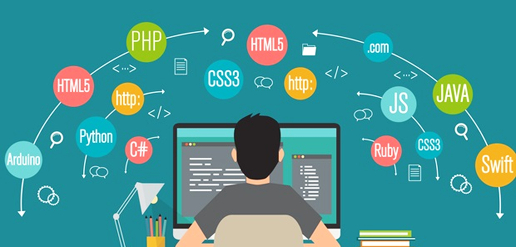
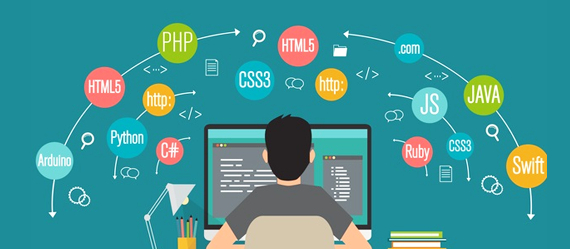
Fix responsive - Mackbook device responsive - Update image in summary section

Changed region(s): [[0.0, 0.085, 1.0, 1.0], [0.4651, 0.4534, 0.5271, 0.5101]]

diff --git a/assets/sass/libs/devices.scss b/assets/sass/libs/devices.scss
@@ -2,15 +2,75 @@
 @import "~devices.css/src/reset";
 @import "~devices.css/src/macbook";
 
+$device-sm-width: 400px;
+$device-sm-height: 200px;
+$frame-sm-width: 350px;
+$frame-sm-height: 200px;
+$frame-sm-size: 8px;
+
+$device-md-width: 700px;
+$device-md-height: 450px;
+$frame-md-width: 614px;
+$frame-md-height: 428px;
+$frame-md-size: 13px;
+
+$device-lg-width: 1024px;
+$device-lg-height: 584px;
+$frame-lg-width: 864px;
+$frame-lg-height: 570px;
+$frame-lg-size: 20px;
+
+@mixin macbook(
+  $device-width: $device-lg-width,
+  $device-height: $device-lg-height,
+  $frame-width: $frame-lg-width,
+  $frame-height: $frame-lg-height,
+  $frame-size: $frame-lg-size
+) {
+  .device-macbook {
+    width: $device-width;
+    height: $device-height;
+    .device-frame {
+      width: $frame-width;
+      height: $frame-height;
+      padding: $frame-size $frame-size $frame-size * 2;
+    }
+    .device-content {
+      border: none;
+      width: 100%;
+      height: 100%;
+    }
+    .device-power {
+      &, &:before {
+        width: $device-width;
+      }
+      &:after {
+        width: 190px;
+        margin-left: -95px;
+      }
+    }
+  }
+}
+
+// The size is responsive
+@media screen and (max-width: 767px) {
+  @include macbook($device-sm-width, $device-sm-height, $frame-sm-width, $frame-sm-height, $frame-sm-size)
+}
+
+// The size is responsive
+@media screen and (min-width: 768px) and (max-width: 1087px) {
+  @include macbook($device-md-width, $device-md-height, $frame-md-width, $frame-md-height, $frame-md-size)
+}
+
+// The size is responsive
+@media screen and (min-width: 1088px) {
+  @include macbook;
+}
+
 .device-macbook {
-  width: 1024px;
-  height: 584px;
   .device-frame {
-    width: 864px;
-    height: 570px;
     box-shadow: none;
     background: #ffffff;
-    padding: 20px;
     &:before {
       display: none;
     }
@@ -18,13 +78,9 @@
       display: none;
     }
   }
-
   .device-content {
     border: none;
-    width: 830px;
-    height: 520px;
   }
-
   .device-power {
     -webkit-box-shadow: 0 30px 40px 9px rgba(0, 0, 0, 0.2);
     -moz-box-shadow: 0 30px 40px 9px rgba(0, 0, 0, 0.2);
@@ -33,13 +89,5 @@
       background: #f1f1f1;
       box-shadow: inset 0 -2px 6px 0 #c6c6c6 !important;
     }
-  }
-  .device-power,
-  .device-power:before {
-    width: 1024px;
-  }
-  .device-power:after {
-    width: 190px;
-    margin-left: -95px;
   }
 }

diff --git a/components/Sections/Hero.vue b/components/Sections/Hero.vue
@@ -33,6 +33,9 @@
     padding-top: 4rem;
     background: linear-gradient(180deg, #4771d9 0%, #5bdfdf 100%) no-repeat;
     background-size: 100% calc(100% - 180px);
+    @media screen and (max-width: 400px) {
+      background-size: 100%;
+    }
     min-height: 100vh;
     width: 100%;
     overflow-x: hidden;
@@ -42,9 +45,15 @@
 
       .title, .subtitle {
         font-family: Poppins, sans-serif;
-        font-size: 3.5rem;
+        font-size: 2rem;
         color: #ffffff;
         text-align: center;
+        @media screen and (min-width: 768px) and (max-width: 1087px) {
+          font-size: 2.8rem;
+        }
+        @media screen and (min-width: 1088px) {
+          font-size: 3.5rem;
+        }
       }
       .title {
         font-weight: 600;
@@ -56,13 +65,16 @@
     }
 
     &-previewer {
-      display: flex;
+      display: none;
       justify-content: center;
       position: relative;
-      .device-frame {
-        -webkit-box-shadow: 0 12px 22px 8px rgba(0,0,0,0.1);
-        -moz-box-shadow: 0 12px 22px 8px rgba(0,0,0,0.1);
-        box-shadow: 0 12px 22px 8px rgba(0,0,0,0.1);
+      @media screen and (min-width: 400px) {
+        display: flex;
+      }
+      @media screen and (max-width: 500px) {
+        &:before, &:after {
+          display: none;
+        }
       }
       &:before {
         content: url(~assets/images/bg-device-left.png);
@@ -75,6 +87,11 @@
         position: absolute;
         top: -50px;
         right: -200px;
+      }
+      .device-frame {
+        -webkit-box-shadow: 0 12px 22px 8px rgba(0,0,0,0.1);
+        -moz-box-shadow: 0 12px 22px 8px rgba(0,0,0,0.1);
+        box-shadow: 0 12px 22px 8px rgba(0,0,0,0.1);
       }
     }
   }

diff --git a/components/Site/Navbar.vue b/components/Site/Navbar.vue
@@ -1,7 +1,7 @@
 <template>
   <nav
     :class="{
-      'viblo-navbar navbar header': true,
+      'viblo-navbar navbar header flex-center': true,
       'is-sticky slideInDown animated faster': isSticky,
       'is-primary fadeInDown animated faster': !isSticky
     }"

diff --git a/components/Sections/Summary.vue b/components/Sections/Summary.vue
@@ -39,7 +39,7 @@
     }
     .preview img {
       width: 100%;
-      height: 247px;
+      height: auto;
     }
   }
 </style>
